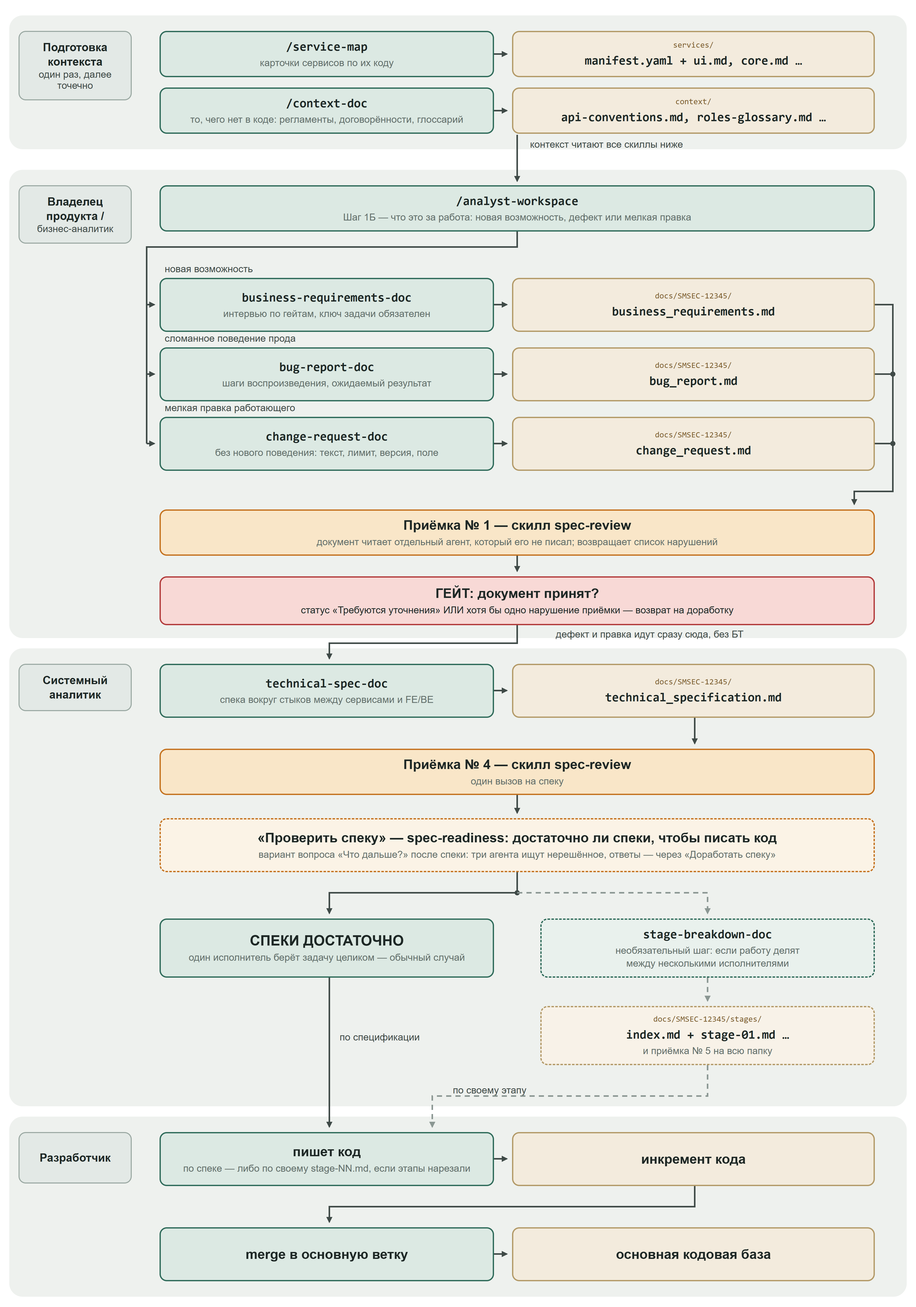
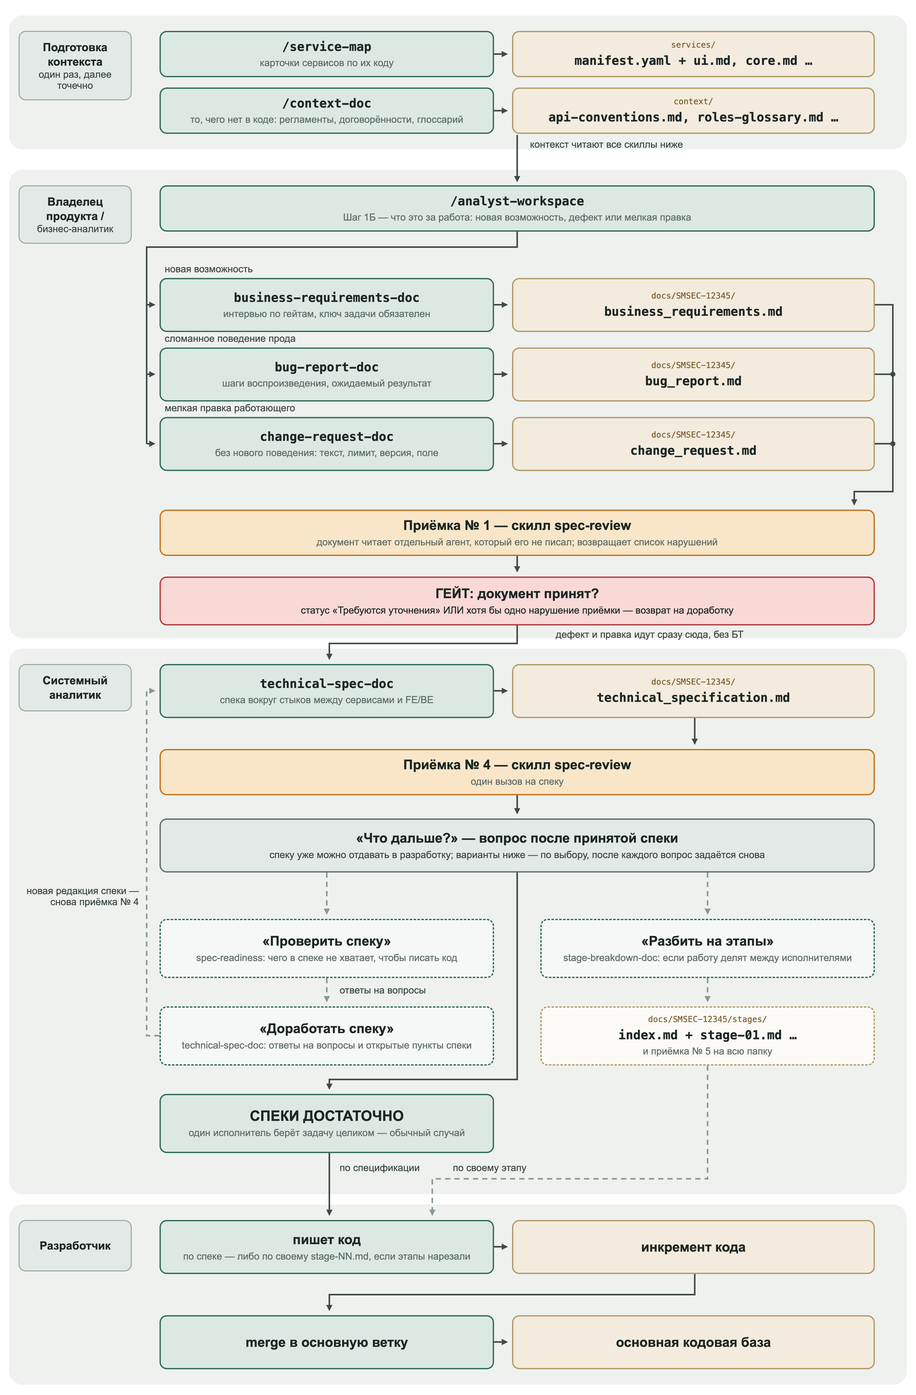
docs: release notes 5.1 → 5.33 по скиллам; схема — узел «Что дальше?» после спеки
RELEASE-NOTES.md: краткие заметки по скиллам от бизнес-слоя в карточке
service-map до последней записи ченжлога, подблоки — крупные переходы версий.

Схема: после принятой спеки — вопрос «Что дальше?» с вариантами «Проверить
спеку», «Доработать спеку», «Разбить на этапы»; доработка возвращает к приёмке.

diff --git a/img/schema.src.html b/img/schema.src.html
@@ -2,8 +2,8 @@
 <html lang="ru"><head><meta charset="utf-8"><title>schema</title>
 <style>
   html,body{margin:0;background:#fff}
-  #inner{position:absolute;left:0;top:300px;width:1780px;height:2240px}
-  #c{position:relative;width:1780px;height:2540px;background:#fff;font-family:"Helvetica Neue",Helvetica,Arial,sans-serif;color:#1d2725}
+  #inner{position:absolute;left:0;top:300px;width:1780px;height:2410px}
+  #c{position:relative;width:1780px;height:2710px;background:#fff;font-family:"Helvetica Neue",Helvetica,Arial,sans-serif;color:#1d2725}
   .sec{position:absolute;left:18px;width:1744px;background:#eef1ee;border-radius:26px}
   .role{position:absolute;left:36px;width:220px;background:#e3e9e6;border:2px solid #9aa8a2;border-radius:14px;text-align:center;padding:16px 10px;box-sizing:border-box}
   .role b{display:block;font-size:22px;line-height:28px}
@@ -17,6 +17,7 @@
   .a{background:#f3ebdd;border-color:#b39a68}
   .o{background:#f9e6c8;border-color:#c4721f}
   .r{background:#f8d9d6;border-color:#b23a3a}
+  .q{background:#e3e9e6;border-color:#5f6d69}
   .d{border-style:dashed}
   .lbl{position:absolute;font-size:19px;color:#3b4744}
   svg{position:absolute;left:0;top:0}
@@ -32,12 +33,12 @@
   <div class="lbl" style="left:1030px;top:270px">контекст читают все скиллы ниже</div>
   <div id="inner">
   <div class="sec" style="top:30px;height:910px"></div>
-  <div class="sec" style="top:960px;height:890px"></div>
-  <div class="sec" style="top:1870px;height:350px"></div>
+  <div class="sec" style="top:960px;height:1060px"></div>
+  <div class="sec" style="top:2040px;height:350px"></div>
 
   <div class="role" style="top:60px"><b>Владелец продукта /</b><span>бизнес-аналитик</span></div>
   <div class="role" style="top:990px"><b>Системный аналитик</b></div>
-  <div class="role" style="top:1900px;padding:34px 10px"><b>Разработчик</b></div>
+  <div class="role" style="top:2070px;padding:34px 10px"><b>Разработчик</b></div>
 
   <!-- section 1 -->
   <div class="box g" style="left:310px;top:60px;width:1390px;height:90px"><div class="m">/analyst-workspace</div><div class="s">Шаг 1Б — что это за работа: новая возможность, дефект или мелкая правка</div></div>
@@ -63,21 +64,25 @@
   <div class="box a" style="left:995px;top:990px;width:705px;height:105px"><div class="p">docs/SMSEC-12345/</div><div class="m">technical_specification.md</div></div>
 
   <div class="box o" style="left:310px;top:1155px;width:1390px;height:90px"><div class="t">Приёмка № 4 — скилл spec-review</div><div class="s">один вызов на спеку</div></div>
-  <div class="box o d" style="left:310px;top:1290px;width:1390px;height:105px;background:#fbf3e6"><div class="t">«Проверить спеку» — spec-readiness: достаточно ли спеки, чтобы писать код</div><div class="s">вариант вопроса «Что дальше?» после спеки: три агента ищут нерешённое, ответы — через «Доработать спеку»</div></div>
+  <div class="box q" style="left:310px;top:1290px;width:1390px;height:105px"><div class="t">«Что дальше?» — вопрос после принятой спеки</div><div class="s" style="color:#3b4744">спеку уже можно отдавать в разработку; варианты ниже — по выбору, после каждого вопрос задаётся снова</div></div>
 
-  <div class="box g" style="left:310px;top:1485px;width:650px;height:115px"><div class="t" style="font-size:28px">СПЕКИ ДОСТАТОЧНО</div><div class="s">один исполнитель берёт задачу целиком — обычный случай</div></div>
-  <div class="box g d" style="left:1050px;top:1485px;width:650px;height:115px;background:#e9f1ed"><div class="m">stage-breakdown-doc</div><div class="s">необязательный шаг: если работу делят<br>между несколькими исполнителями</div></div>
-  <div class="box a d" style="left:1050px;top:1655px;width:650px;height:115px;background:#f8f2e8"><div class="p">docs/SMSEC-12345/stages/</div><div class="m">index.md + stage-01.md …</div><div class="s">и приёмка № 5 на всю папку</div></div>
-  <div class="lbl" style="left:660px;top:1705px">по спецификации</div>
-  <div class="lbl" style="left:880px;top:1808px">по своему этапу</div>
+  <div class="box g d" style="left:310px;top:1485px;width:650px;height:115px;background:#f5f8f6"><div class="t">«Проверить спеку»</div><div class="s">spec-readiness: чего в спеке не хватает, чтобы писать код</div></div>
+  <div class="box g d" style="left:1050px;top:1485px;width:650px;height:115px;background:#f5f8f6"><div class="t">«Разбить на этапы»</div><div class="s">stage-breakdown-doc: если работу делят между исполнителями</div></div>
+  <div class="lbl" style="left:660px;top:1613px">ответы на вопросы</div>
+  <div class="box g d" style="left:310px;top:1655px;width:650px;height:115px;background:#f5f8f6"><div class="t">«Доработать спеку»</div><div class="s">technical-spec-doc: ответы на вопросы и открытые пункты спеки</div></div>
+  <div class="box a d" style="left:1050px;top:1655px;width:650px;height:115px;background:#fcfaf6"><div class="p">docs/SMSEC-12345/stages/</div><div class="m">index.md + stage-01.md …</div><div class="s">и приёмка № 5 на всю папку</div></div>
+  <div class="lbl" style="left:36px;top:1420px;width:234px;text-align:right">новая редакция спеки —<br>снова приёмка № 4</div>
+  <div class="box g" style="left:310px;top:1825px;width:650px;height:115px"><div class="t" style="font-size:28px">СПЕКИ ДОСТАТОЧНО</div><div class="s">один исполнитель берёт задачу целиком — обычный случай</div></div>
+  <div class="lbl" style="left:660px;top:1958px">по спецификации</div>
+  <div class="lbl" style="left:880px;top:1958px">по своему этапу</div>
 
   <!-- section 3 -->
-  <div class="box g" style="left:310px;top:1900px;width:650px;height:105px"><div class="t">пишет код</div><div class="s">по спеке — либо по своему stage-NN.md, если этапы нарезали</div></div>
-  <div class="box a" style="left:995px;top:1900px;width:705px;height:105px"><div class="t">инкремент кода</div></div>
-  <div class="box g" style="left:310px;top:2085px;width:650px;height:105px"><div class="t">merge в основную ветку</div></div>
-  <div class="box a" style="left:995px;top:2085px;width:705px;height:105px"><div class="t">основная кодовая база</div></div>
+  <div class="box g" style="left:310px;top:2070px;width:650px;height:105px"><div class="t">пишет код</div><div class="s">по спеке — либо по своему stage-NN.md, если этапы нарезали</div></div>
+  <div class="box a" style="left:995px;top:2070px;width:705px;height:105px"><div class="t">инкремент кода</div></div>
+  <div class="box g" style="left:310px;top:2255px;width:650px;height:105px"><div class="t">merge в основную ветку</div></div>
+  <div class="box a" style="left:995px;top:2255px;width:705px;height:105px"><div class="t">основная кодовая база</div></div>
 
-  <svg width="1780" height="2240" fill="none" stroke="#3f4a47" stroke-width="3">
+  <svg width="1780" height="2410" fill="none" stroke="#3f4a47" stroke-width="3">
     <defs>
       <marker id="ah" markerWidth="12" markerHeight="12" refX="10" refY="6" orient="auto" markerUnits="userSpaceOnUse"><path d="M0,0 L12,6 L0,12 z" fill="#3f4a47" stroke="none"/></marker>
       <marker id="ahg" markerWidth="12" markerHeight="12" refX="10" refY="6" orient="auto" markerUnits="userSpaceOnUse"><path d="M0,0 L12,6 L0,12 z" fill="#8b9793" stroke="none"/></marker>
@@ -102,16 +107,20 @@
     <path d="M960,1042 H985" marker-end="url(#ah)"/>
     <path d="M1350,1095 V1145" marker-end="url(#ah)"/>
     <path d="M1005,1245 V1280" marker-end="url(#ah)"/>
-    <path d="M1005,1395 V1435 H640 V1475" marker-end="url(#ah)"/>
-    <circle cx="1005" cy="1435" r="5" fill="#3f4a47" stroke="none"/>
-    <path d="M1005,1435 H1375 V1475" stroke="#8b9793" stroke-dasharray="10 8" marker-end="url(#ahg)"/>
+    <!-- «Что дальше?»: основной путь и три варианта -->
+    <path d="M1005,1395 V1797 H640 V1815" marker-end="url(#ah)"/>
+    <path d="M635,1395 V1475" stroke="#8b9793" stroke-dasharray="10 8" marker-end="url(#ahg)"/>
+    <path d="M1375,1395 V1475" stroke="#8b9793" stroke-dasharray="10 8" marker-end="url(#ahg)"/>
+    <path d="M635,1600 V1645" stroke="#8b9793" stroke-dasharray="10 8" marker-end="url(#ahg)"/>
     <path d="M1375,1600 V1645" stroke="#8b9793" stroke-dasharray="10 8" marker-end="url(#ahg)"/>
-    <path d="M640,1600 V1890" marker-end="url(#ah)"/>
-    <path d="M1375,1770 V1830 H840 V1890" stroke="#8b9793" stroke-dasharray="10 8" marker-end="url(#ahg)"/>
+    <!-- доработка: новая редакция спеки -->
+    <path d="M310,1712 H285 V1042 H300" stroke="#8b9793" stroke-dasharray="10 8" marker-end="url(#ahg)"/>
+    <path d="M640,1940 V2060" marker-end="url(#ah)"/>
+    <path d="M1375,1770 V1990 H840 V2060" stroke="#8b9793" stroke-dasharray="10 8" marker-end="url(#ahg)"/>
     <!-- section 3 -->
-    <path d="M960,1952 H985" marker-end="url(#ah)"/>
-    <path d="M1350,2005 V2045 H640 V2075" marker-end="url(#ah)"/>
-    <path d="M960,2137 H985" marker-end="url(#ah)"/>
+    <path d="M960,2122 H985" marker-end="url(#ah)"/>
+    <path d="M1350,2175 V2215 H640 V2245" marker-end="url(#ah)"/>
+    <path d="M960,2307 H985" marker-end="url(#ah)"/>
   </svg>
   </div>
   <svg width="1780" height="360" style="overflow:visible" fill="none" stroke="#3f4a47" stroke-width="3">

diff --git a/agent-version/RELEASE-NOTES.md b/agent-version/RELEASE-NOTES.md
@@ -1,0 +1,92 @@
+# Release notes: набор 5.1 → 5.33 (15.09 — 03.10.2026)
+
+## `service-map` 1.0.0 → 2.2.1
+
+### 1.0.0 → 1.5.0 — бизнес-слой в карточке (5.1, 5.3, 5.5, 5.6, 5.10)
+- В карточке появились «Назначение» (зачем сервис бизнесу) и секция «Бизнес-правила»: состояния объектов, исходящие сообщения и ограничения словами, без кода.
+- Справочники без правил блоков не получают; чужие сущности и чужие флаги своими не записываются.
+- Секция проверяется пятью механическими подсчётами вместо правил-суждений, которые модель обходила формулировкой.
+
+### 1.0.0 → 1.1.0 — быстрое обновление карточки после релиза (5.2)
+- Вместо полного скана на 25–31 минуту обновляется только задетое — по подсказке «Задето» от `archive-spec`.
+- В шапке карточки `updated` (быстрое обновление) стоит отдельно от `scanned` (полный скан).
+
+### 1.5.0 → 2.2.1 — новое устройство скана (5.13–5.15, 5.18, 5.19)
+- Субагент пишет черновик карточки в файл. Ведущий текст не видит и не перенабирает, только считает — поля при записи больше не теряются.
+- Если из карточки пропадает заметная часть, новая версия уходит в `services/_pending/`, прежняя остаётся нетронутой. Принимает или отклоняет человек.
+- Рабочие файлы убираются после прогона, и только свои — параллельные сканы друг другу не мешают.
+- «Владеет данными» содержит только сущности, которые сервис хранит сам; поля чужих ответов записываются у ручки.
+- «Слепок готов» печатается, только если все карточки записаны.
+
+## `archive-spec` 1.0.0 → 1.2.1 (5.2, 5.7)
+
+- Собирает из спеки подсказку «Задето» для быстрого обновления карточек, включая лимиты, таймауты и флаги.
+- Сервис-потребитель без изменения контракта в скан больше не идёт.
+
+## `business-requirements-doc` 1.0.0 → 1.1.1
+
+### 1.0.0 → 1.0.3 — читает бизнес-слой карточки (5.1, 5.3, 5.11, 5.19)
+- Берёт из карточки «Назначение», «Бизнес-правила» и «Заметки команды»; строка правил становится гипотезой критерия приёмки, блок ограничения — гипотезой риска.
+- Если карточка называет соседа, читает правила объекта у сервиса-владельца данных.
+
+### 1.0.3 → 1.1.1 — когда гейт закрыт и когда писать TBD (5.32, 5.33)
+- У каждого гейта есть условие «Закрыт:» — какой ответ достаточен. Сверх него скилл не требует, при неполном ответе переспрашивает.
+- TBD ставится только по явному отказу пользователя.
+- Критерий приёмки не сочиняется: нет критерия — вопрос. Общий критерий закрывает только названные в нём требования.
+- Оговорка: на слабой модели выдуманный критерий при записи всё ещё встречается.
+
+## `technical-spec-doc` 1.0.0 → 1.3.0
+
+### 1.0.0 → 1.1.0 — цепочка к владельцу данных и чистка (5.2, 5.4, 5.19, 5.20)
+- Если карточка называет соседа, скилл обязан дойти по цепочке карточек до сервиса-владельца данных.
+- Сняты шесть противоречий и повторы одного правила в разных местах.
+
+### 1.1.0 → 1.2.0 — новые поля спеки (5.29)
+- В спеке появились: частичный сбой при вызове соседа, судьба уже лежащих строк, «Технические риски», «Редакция» в шапке.
+- Пункт про алерты убран — заполнялся выдуманным. Партия про повтор и одновременное изменение откачена.
+
+### 1.2.0 → 1.3.0 — доработка по вопросам проверки (5.31)
+- Получив вопросы без ответов, скилл сначала спрашивает аналитика и пишет только подтверждённое.
+
+## `analyst-workspace` 1.0.0 → 2.0.0
+
+### 1.0.0 → 1.3.0 — маршрут спрашивает, а не решает за аналитика (5.4, 5.16, 5.17)
+- Нарезка на этапы стала необязательной: оркестратор спрашивает, разбивать ли спеку.
+- После записи документа всегда задаётся вопрос «Поправить / Идти дальше / Пока остановиться».
+- Готовый документ идёт сразу к следующему шагу, без повторной приёмки.
+
+### 1.3.0 → 2.0.0 — узел «Что дальше?» (5.30)
+- После спеки один узел с вариантами «проверить», «доработать», «разбить на этапы», «другая задача».
+- Проверку готовности оркестратор запускает сам, её находки уходят в доработку.
+
+## `spec-readiness` 1.0.0 → 1.1.2 (5.2, 5.7, 5.30)
+
+- Сверку вопросов со спекой делает отдельный субагент и возвращает вердикт с цитатой.
+- У существующих интеграций проверяется наша сторона вызова; чужой контракт не трогается.
+- Из таблицы фронтенда убраны пять строк, которые давали вопросы, но ни разу не привели к дыре.
+- На замере найденных дыр стало 4,5 из 6 вместо 3,8, а список сократился с 17,5 до 13,6 пункта.
+
+## `spec-review` 1.0.0 → 1.0.2 (5.4, 5.8)
+
+- Сняты три ложных срабатывания приёмки: роли в БТ, закрытый раздел взаимодействий, индекс этапов «не применимо».
+
+## `interaction-diagram` — новый скилл, 1.0.0 → 4.4.0
+
+### 1.0.0 → 4.0.0 — короткая схема (5.21–5.25)
+- Рисует схему взаимодействий по готовой спеке отдельным файлом, в Mermaid или PlantUML.
+- Вызовы идут в порядке по времени; цепочка `FE → BE → сервис` рисуется стрелкой на каждое звено.
+- Чего нет в спеке, спрашивает у аналитика и не додумывает.
+- Вариант «подробная схема» (3.1.0) не принят и убран.
+
+### 4.0.0 → 4.4.0 — сценарная схема (5.26–5.28)
+- Второй тип: диаграмма на действие пользователя, с ответами, внутренними шагами и телами запросов на своих звеньях.
+- Тип схемы — короткая или сценарная — спрашивается первым вопросом.
+
+## `bug-report-doc`, `change-request-doc` 1.0.0 → 1.0.1 (5.1, 5.8)
+
+- Читают «Бизнес-правила» карточки как источник описания процесса.
+- Описания скиллов сокращены втрое.
+
+## `analyst-skills-update` 1.0.0 → 1.0.1 (5.12)
+
+- Источник скиллов теперь `skills/`, а `.gigacode/` остаётся запасным: после переезда папок в продовом репозитории обновление падало.
